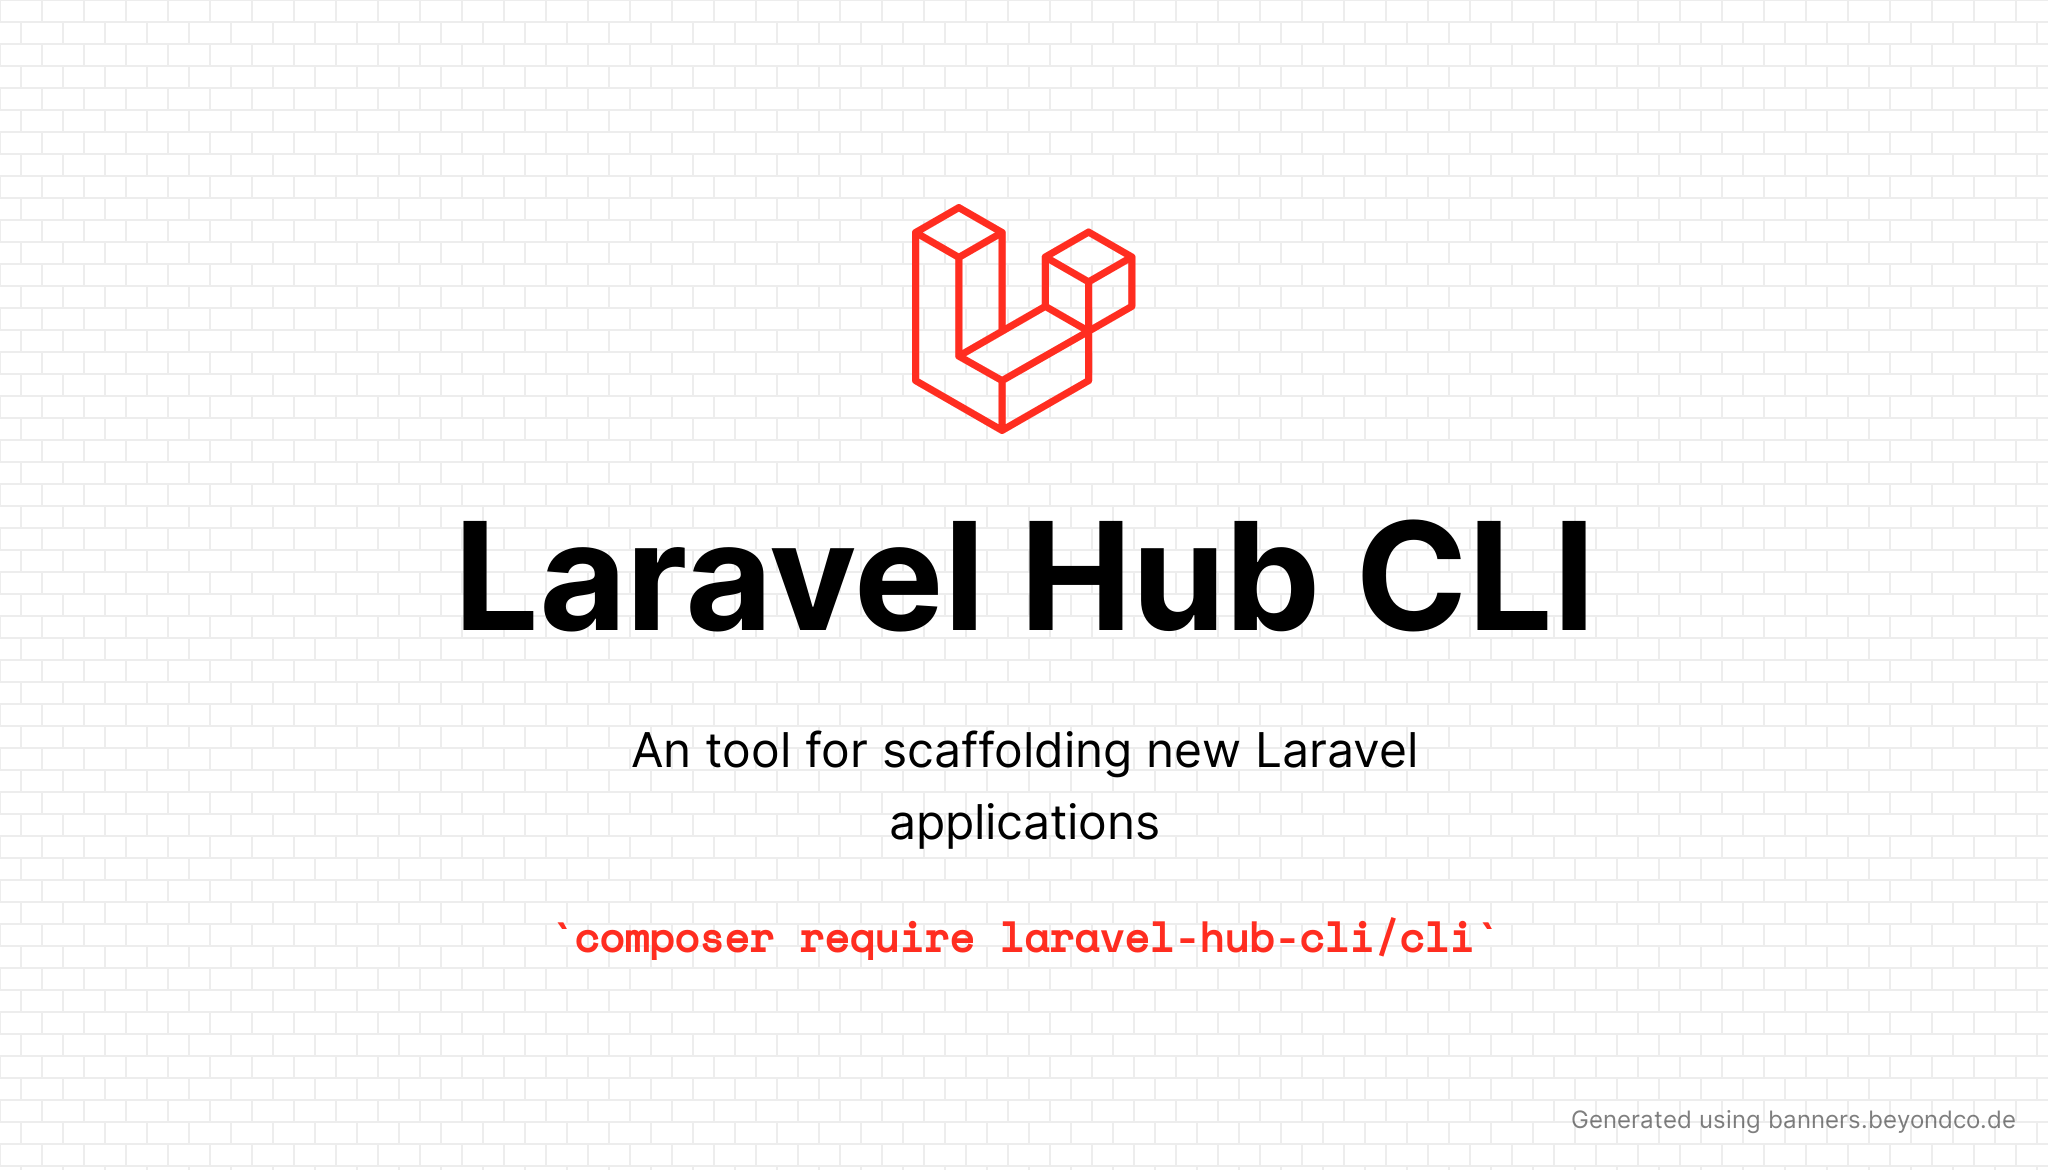
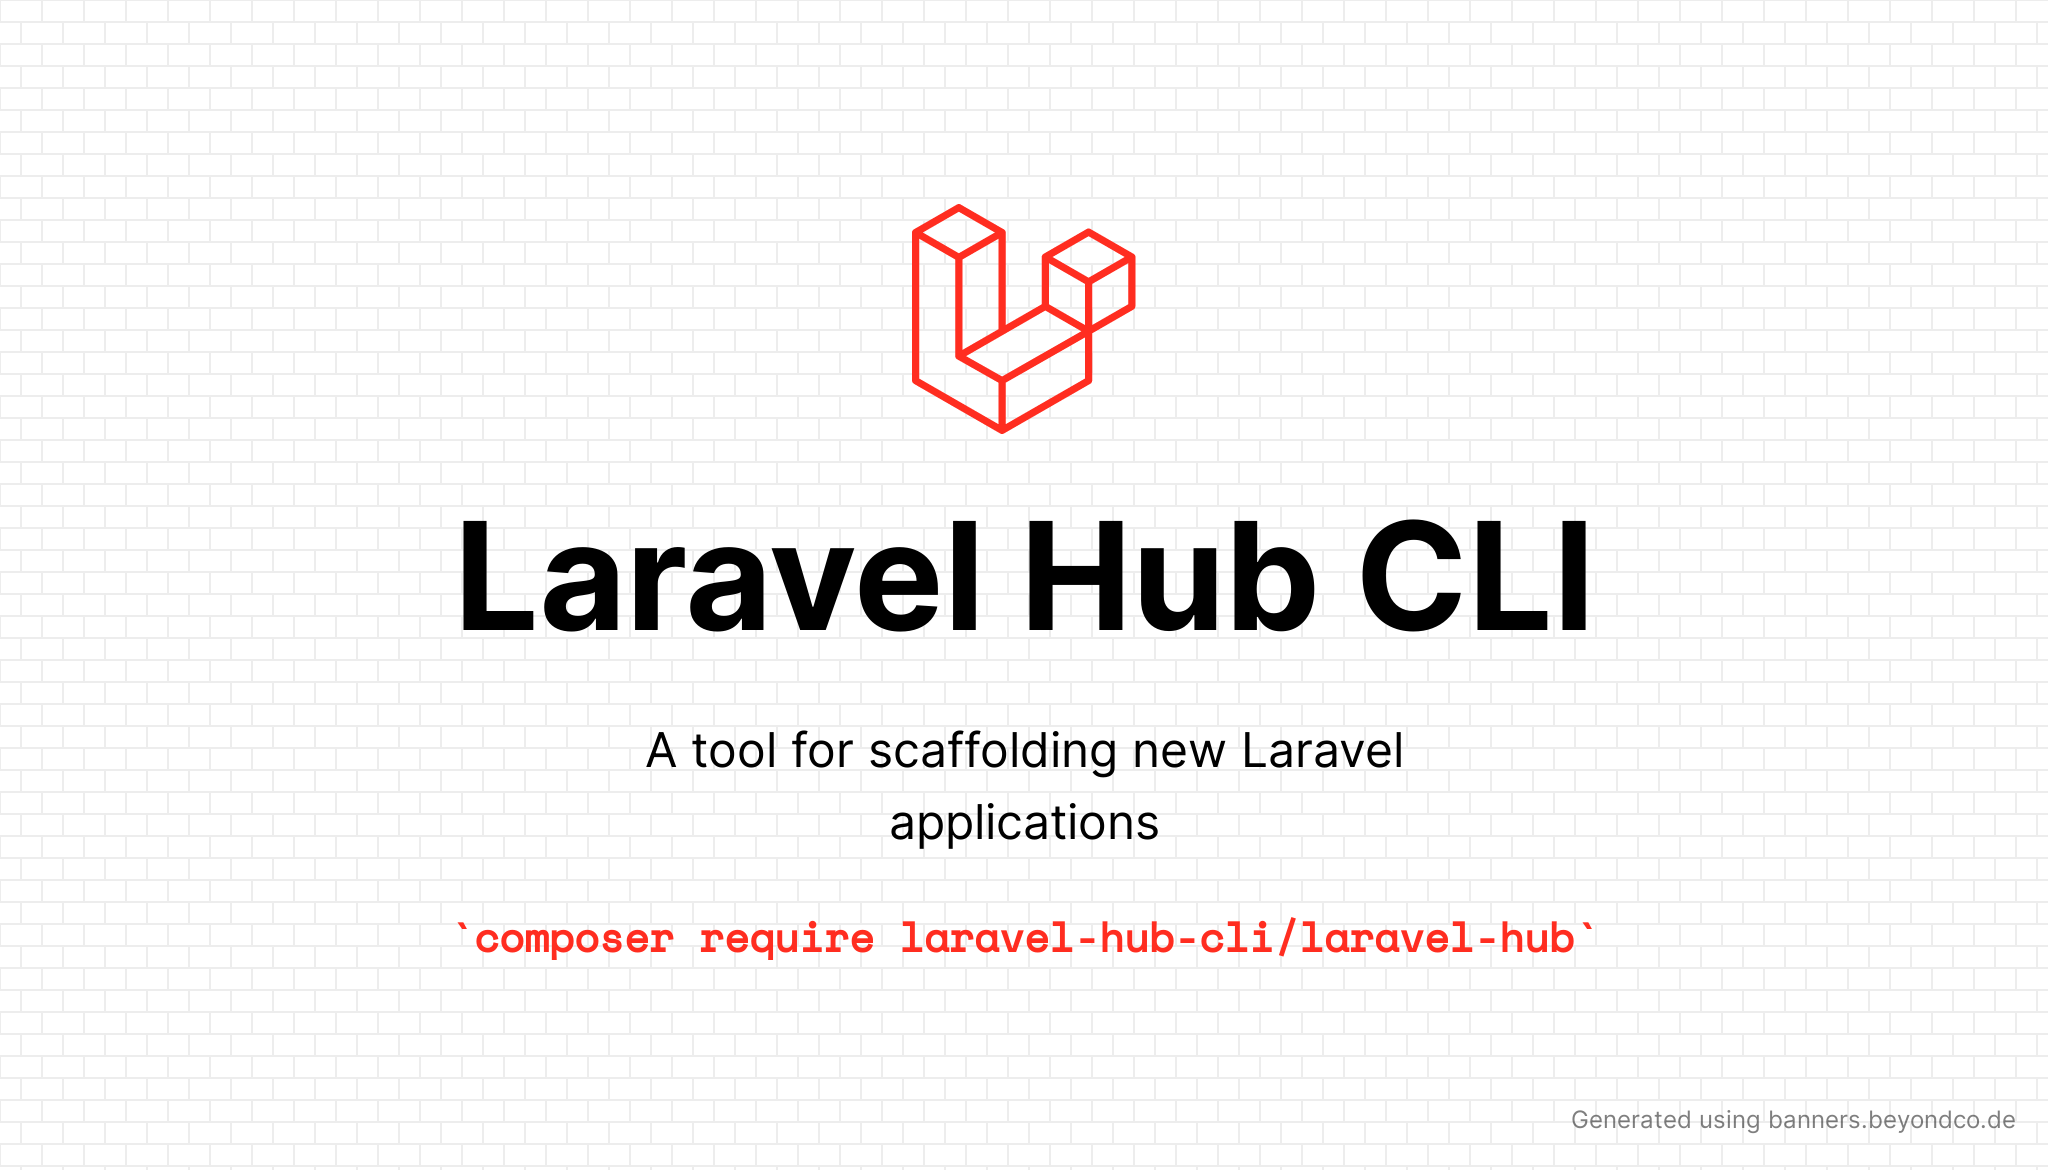
wip

Changed region(s): [[0.2188, 0.7692, 0.7812, 0.8308], [0.3125, 0.6154, 0.6875, 0.6769]]

diff --git a/README.md b/README.md
@@ -1,10 +1,30 @@
-# Laravel Hub CLI
-
 ![Banner](banner.png)
 
-The Laravel Hub CLI is an un-official tool for scaffolding new Laravel applications. The name **Laravel Hub** is inspired by Docker and Docker Hub where individuals and teams can share their container images.
+# Installation
 
-Whereas in docker you would create your docker image using a `docker-compose` file, in Laravel Hub you would create your Laravel Application using a `laravel-compose` file.
+```bash
+composer global require laravel-hub-cli/laravel-hub
+```
+
+# Usage
+
+You can use the CLI as a near drop-in replacement for the offical Laravel installer. For example:
+
+```bash
+laravel-hub new project
+```
+
+But the real power of the tool is when you create a `compose` file. The `compose` file is your basic recipe for your application. You should create an `app.yaml` file in the directory where you would like to create your application.
+
+```touch
+touch app.yaml
+```
+
+When you are done crafting your recipe (see docs below), you should run the `compose` command:
+
+```bash
+laravel-hub compose {script=app.yaml} {name?} {version?} {--force}
+```
 
 # Compose File API
 
